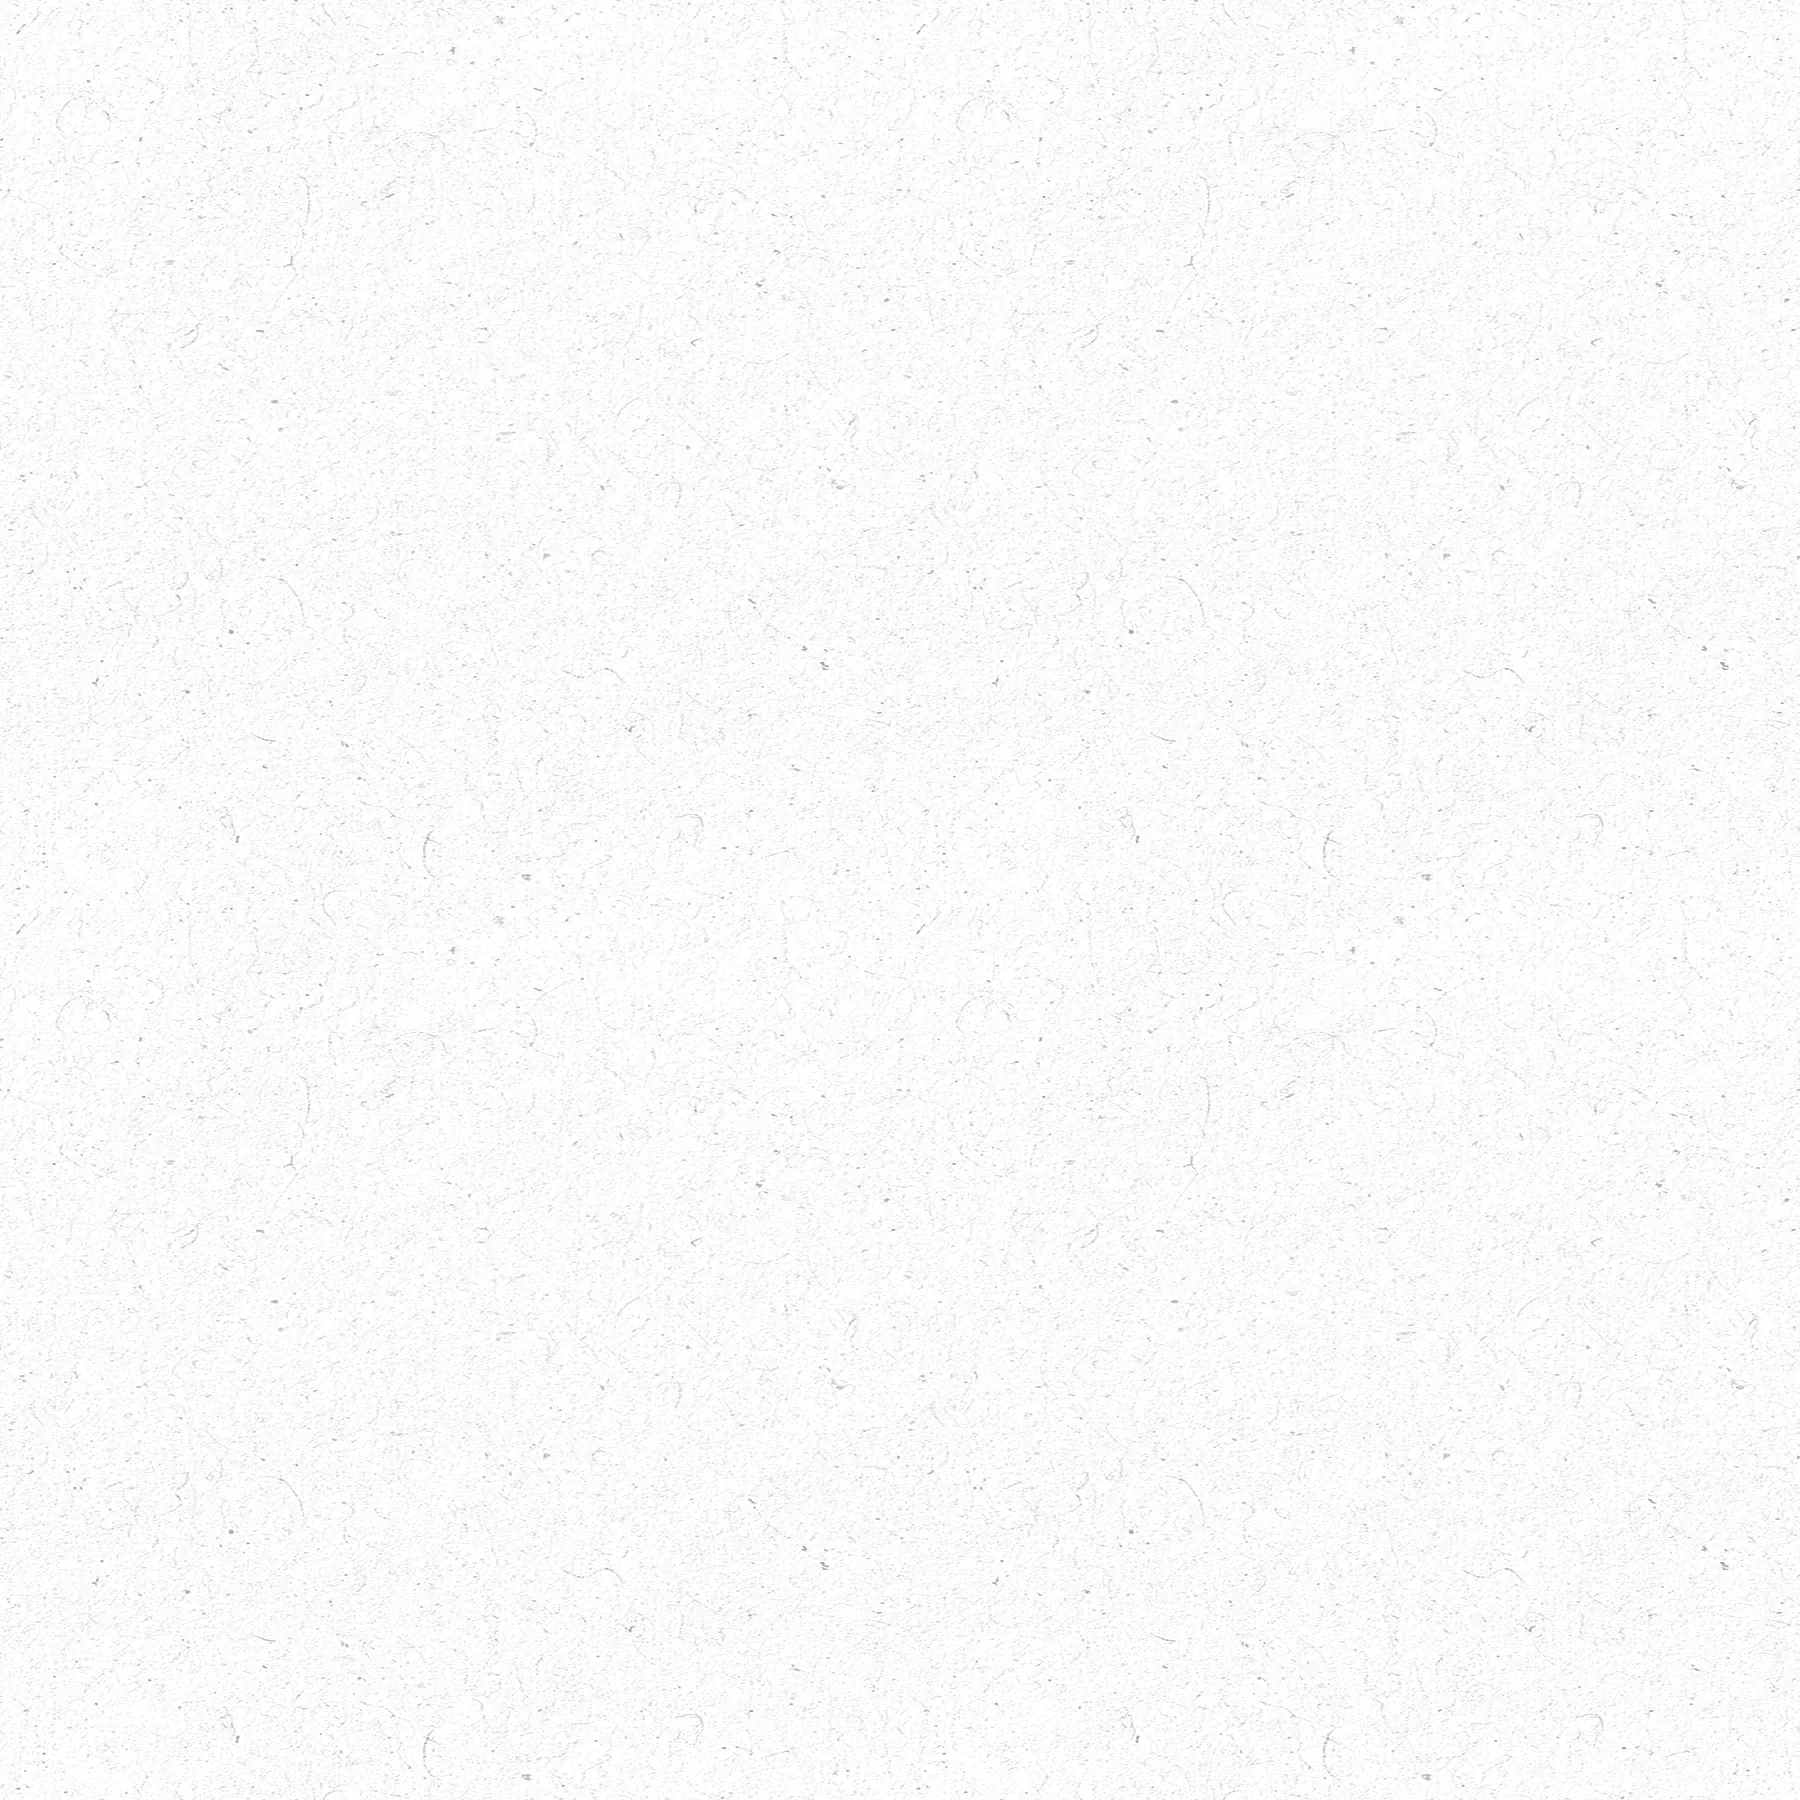
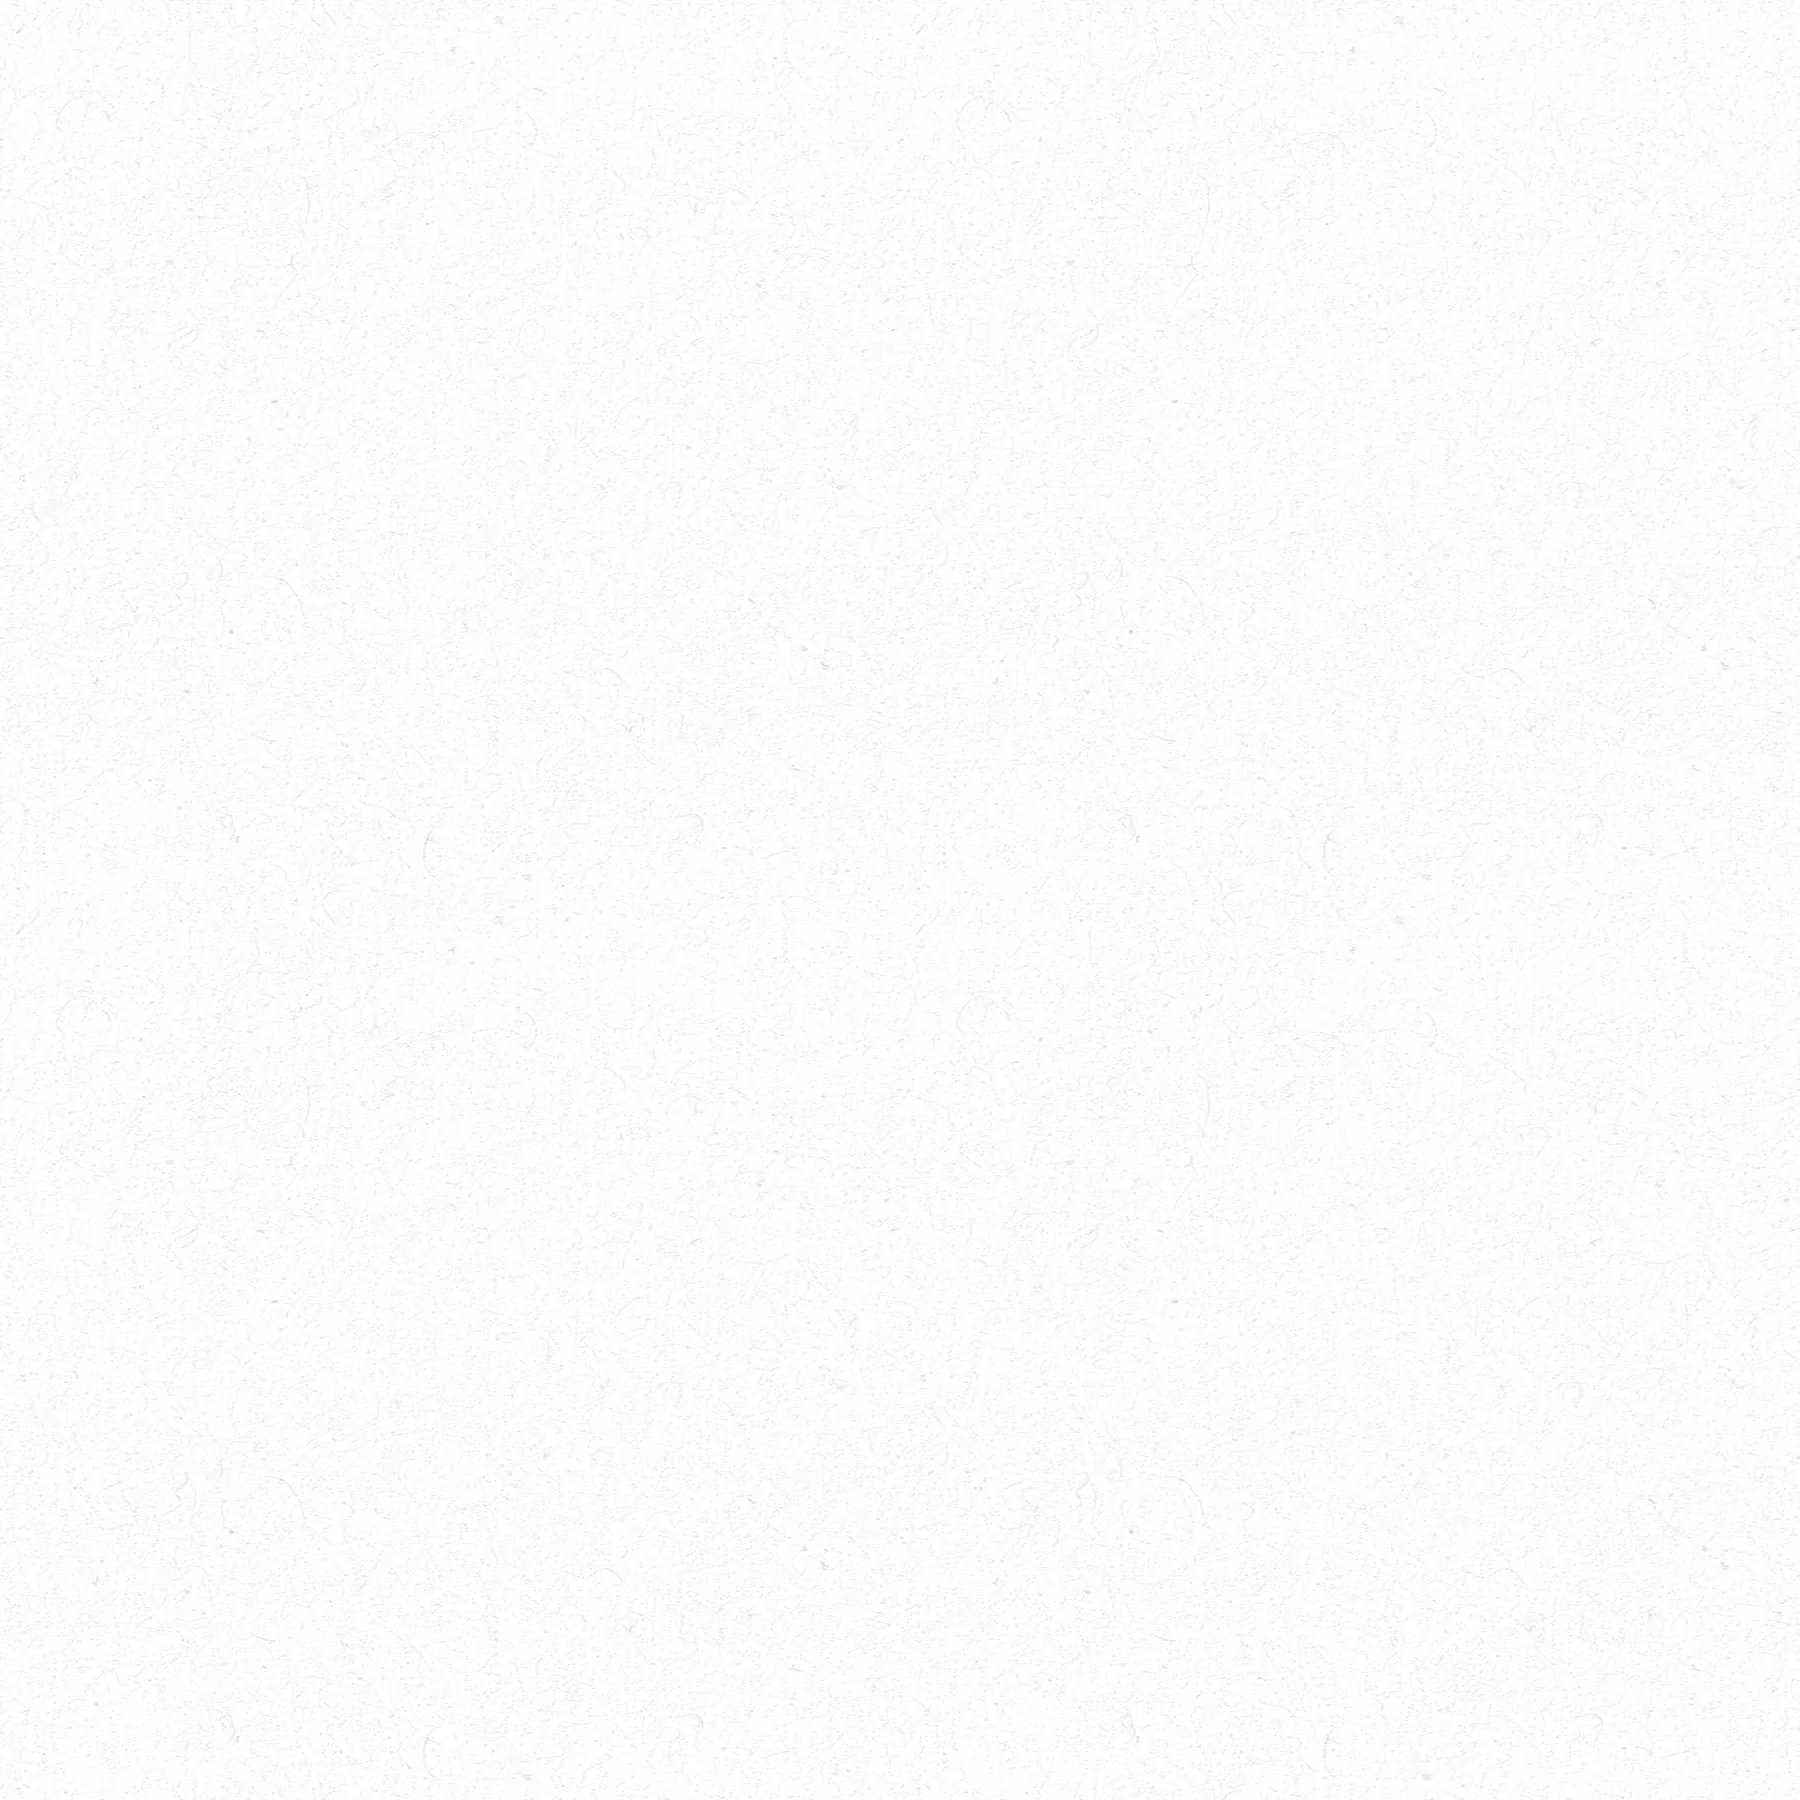
Paper grain preview: less grain, fewer specks
Eyal's notes: a little less grain, fewer specks, less visible. The grain is at about two thirds of the
last strength, and the dark specks and fibres are softened past a threshold, so few of them stand out.

diff --git a/page/static/grain.html b/page/static/grain.html
@@ -166,7 +166,7 @@ footer { padding-block: 34px calc(36px + env(safe-area-inset-bottom, 0px)); colo
   .feed { --col: 58px; --gut: 24px; }
 }
 
-/* Paper preview: the grain, fibres and specks of a real sheet of white paper (Unsplash photo-1712145176570),
+/* Paper preview: the grain and fibres of a real sheet of white paper (Unsplash photo-1712145176570), specks softened,
    without its crinkles, so it can repeat. It scrolls with the text; on the night plate it is left out. */
 body { background-image: url(paper/grain.webp); background-size: 600px 600px; background-blend-mode: multiply; }
 :root[data-theme="dark"] body { background-image: none; }
